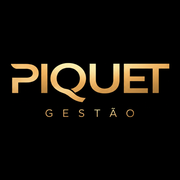
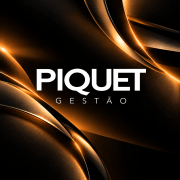
A arte da marca no ícone, e o ícone a mudar mesmo no browser (#46)
* O ícone passa a ser a arte da marca, a sangrar pelos bordos

Substitui o logótipo sobre preto liso pela arte fornecida. Não se recompõe
nada: a arte é o ícone.

A versão anterior RECORTAVA o dourado antes de escalar, porque havia margem
morta à volta de um logótipo assente em preto. Esta arte sangra -- as fitas
tocam nos quatro lados, e o trim não corta um único pixel. Recortá-la seria
amputá-la, por isso o recorte saiu.

Os cantos deixam de ser arredondados. Numa arte que sangra, um canto
transparente é um buraco no desenho, e quem mostra estes ícones já os mascara:
o iOS arredonda sozinho, o Android recorta em círculo. Quadrado é o que
preserva o que foi desenhado.

O maskable deixa de precisar de versão própria. Uma arte que sangra é o caso
ideal para o recorte circular: o que o círculo come são as fitas dos cantos, e
a marca fica ao centro, a ~60% da largura, muito dentro dos 80% garantidos.
Verificado com as duas máscaras aplicadas a sério, a circular e a do iOS.

Fica o mesmo preço de sempre: a 60px lê-se "PIQUET" e não se lê "GESTÃO". Mas
a mancha dourada dá-lhe agora uma silhueta que se reconhece antes de se ler,
que é o que faltava às versões anteriores.

* O ícone no browser não mudava porque o endereço nunca mudava

Os quatro deploys de hoje serviram sempre o ficheiro certo -- confirmei os
hashes contra produção -- e o cache-control até era o mais conservador
possível (max-age=0, must-revalidate). O ícone mudava no servidor e não
mudava no ecrã.
[…]

diff --git a/src/app/manifest.ts b/src/app/manifest.ts
@@ -1,4 +1,5 @@
 import type { MetadataRoute } from "next";
+import { VERSAO_ICONES } from "@/lib/versaoIcones";
 
 /**
  * O backoffice como aplicação instalável.
@@ -33,14 +34,16 @@ export default function manifest(): MetadataRoute.Manifest {
     */
     background_color: "#1C1A17",
     theme_color: "#1C1A17",
+    // `?v=` pela mesma razão do layout: sem ele o browser fica com o ícone
+    // antigo indefinidamente, porque o endereço nunca muda.
     icons: [
-      { src: "/icones/icone-192.png", sizes: "192x192", type: "image/png" },
-      { src: "/icones/icone-512.png", sizes: "512x512", type: "image/png" },
+      { src: `/icones/icone-192.png?v=${VERSAO_ICONES}`, sizes: "192x192", type: "image/png" },
+      { src: `/icones/icone-512.png?v=${VERSAO_ICONES}`, sizes: "512x512", type: "image/png" },
       /*
         `maskable` é o que o Android recorta em círculo. Sem uma versão
         própria, ele recorta a normal e come os cantos do desenho.
       */
-      { src: "/icones/icone-maskable-512.png", sizes: "512x512", type: "image/png", purpose: "maskable" },
+      { src: `/icones/icone-maskable-512.png?v=${VERSAO_ICONES}`, sizes: "512x512", type: "image/png", purpose: "maskable" },
     ],
     /*
       Atalhos: aparecem ao manter o ícone premido. São os dois sítios onde

diff --git a/src/app/layout.tsx b/src/app/layout.tsx
@@ -1,6 +1,7 @@
 import type { Metadata, Viewport } from "next";
 import { Open_Sans } from "next/font/google";
 import "./globals.css";
+import { VERSAO_ICONES } from "@/lib/versaoIcones";
 
 const openSans = Open_Sans({
   subsets: ["latin"],
@@ -60,11 +61,18 @@ export const metadata: Metadata = {
     por isso vão os dois.
   */
   other: { "apple-mobile-web-app-capable": "yes" },
+  /*
+    O `?v=` não é enfeite: sem ele o ícone não muda no browser, por mais
+    deploys que se façam. Os favicons são guardados numa base de dados própria
+    do browser, à parte da cache HTTP e indexada pelo URL -- e o URL era
+    sempre o mesmo. Com o resumo do conteúdo lá dentro, mudar o desenho muda o
+    endereço, e um endereço novo nunca está em cache.
+  */
   icons: {
-    apple: "/icones/apple-touch-icon.png",
+    apple: `/icones/apple-touch-icon.png?v=${VERSAO_ICONES}`,
     icon: [
-      { url: "/icones/icone-192.png", sizes: "192x192", type: "image/png" },
-      { url: "/icones/icone-512.png", sizes: "512x512", type: "image/png" },
+      { url: `/icones/icone-192.png?v=${VERSAO_ICONES}`, sizes: "192x192", type: "image/png" },
+      { url: `/icones/icone-512.png?v=${VERSAO_ICONES}`, sizes: "512x512", type: "image/png" },
     ],
   },
 };

diff --git a/src/lib/versaoIcones.ts b/src/lib/versaoIcones.ts
@@ -1,0 +1,2 @@
+/** Gerado por scripts/icones.mjs — não editar à mão. */
+export const VERSAO_ICONES = "c9130d33";
